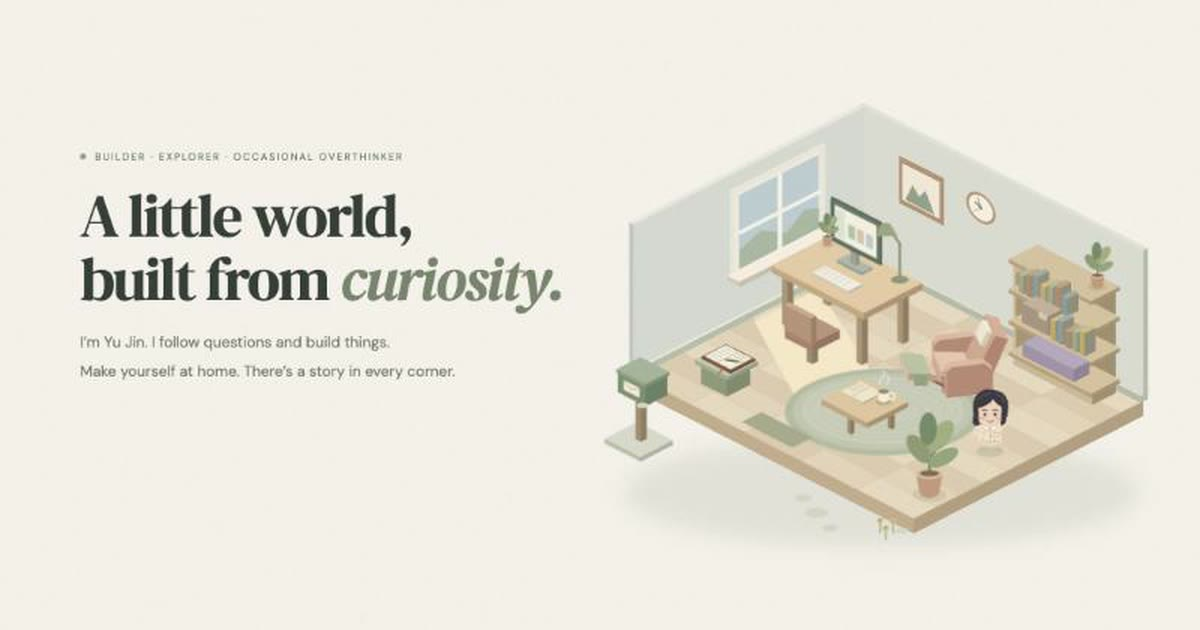
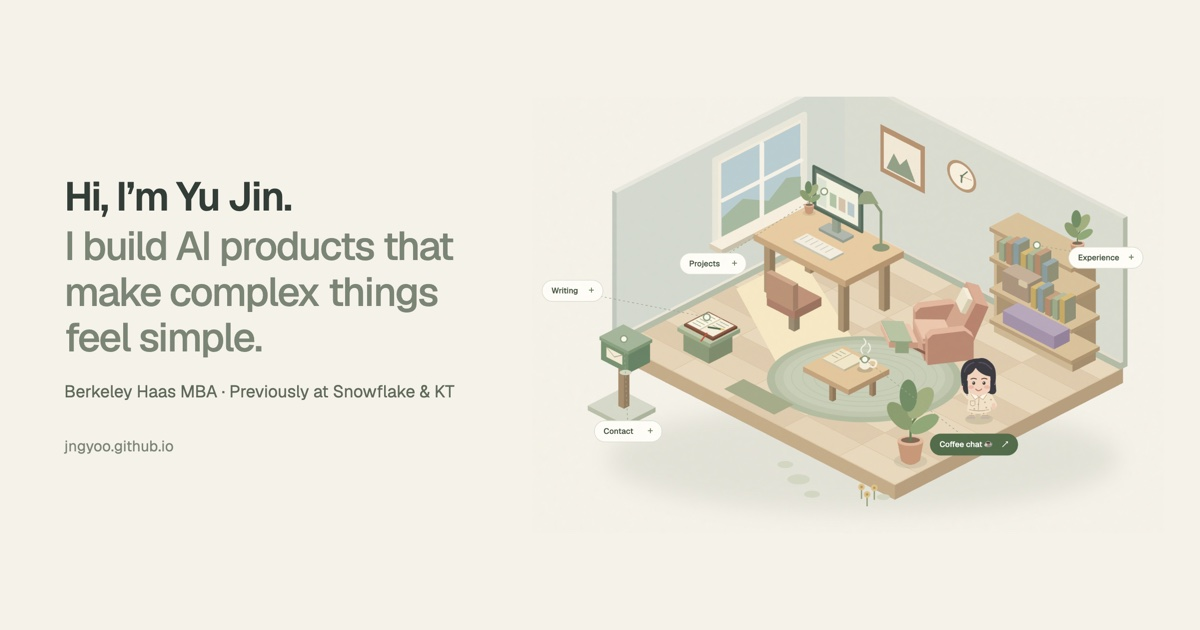
Update search and share text and the share image

Changed region(s): [[0.0308, 0.1508, 0.9558, 0.8444], [0.0617, 0.6937, 0.1542, 0.7238]]

diff --git a/index.html b/index.html
@@ -1,4 +1,4 @@
-<!doctype html><html lang="en"><head><meta charset="utf-8"><meta name="viewport" content="width=device-width, initial-scale=1"><meta name="theme-color" content="#f5f2e9"><meta name="description" content="Step into Yu Jin Jeong’s little world. A builder’s collection of projects, experiences, and questions."><title>Yu Jin's Little World</title><link rel="canonical" href="https://jngyoo.github.io/"><link rel="icon" href="favicon.svg" type="image/svg+xml"><meta property="og:type" content="website"><meta property="og:url" content="https://jngyoo.github.io/"><meta property="og:title" content="Yu Jin's Little World"><meta property="og:description" content="Step into Yu Jin Jeong’s little world. A builder’s collection of projects, experiences, and questions."><meta property="og:image" content="https://jngyoo.github.io/images/og.jpg"><meta property="og:image:width" content="1200"><meta property="og:image:height" content="630"><meta name="twitter:card" content="summary_large_image"><link rel="stylesheet" href="world.css"></head><body>
+<!doctype html><html lang="en"><head><meta charset="utf-8"><meta name="viewport" content="width=device-width, initial-scale=1"><meta name="theme-color" content="#f5f2e9"><meta name="description" content="Yu Jin Jeong builds AI products that make complex things feel simple. Berkeley Haas MBA, previously at Snowflake and KT."><title>Yu Jin Jeong · Yu Jin's Little World</title><link rel="canonical" href="https://jngyoo.github.io/"><link rel="icon" href="favicon.svg" type="image/svg+xml"><meta property="og:type" content="website"><meta property="og:url" content="https://jngyoo.github.io/"><meta property="og:title" content="Yu Jin Jeong · I build AI products"><meta property="og:description" content="Yu Jin Jeong builds AI products that make complex things feel simple. Berkeley Haas MBA, previously at Snowflake and KT."><meta property="og:image" content="https://jngyoo.github.io/images/og.jpg"><meta property="og:image:width" content="1200"><meta property="og:image:height" content="630"><meta name="twitter:card" content="summary_large_image"><link rel="stylesheet" href="world.css"></head><body>
 <div id="door-intro" class="door-intro" role="dialog" aria-modal="true" aria-labelledby="door-title"><button class="door-skip" id="door-skip" type="button">Skip →</button><div class="door-stage">
 <h2 id="door-title">Knock, knock.</h2>
 <div class="facade"><div class="nameplate" aria-hidden="true">Yu Jin</div><div class="door-bubble" id="door-bubble" aria-live="polite"></div>
